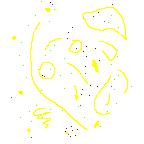
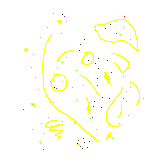
made the ocean larger

diff --git a/Shoot 'n Loot/Shoot 'n Loot/Shoot 'n Loot/Map/Map.cs b/Shoot 'n Loot/Shoot 'n Loot/Shoot 'n Loot/Map/Map.cs
@@ -13,7 +13,7 @@ namespace Shoot__n_Loot
 {
     class Map
     {
-        public const byte width = 12, height = 12, maxZombies = 4; //number of chunks. width * Tile.size * chunk.size should equal the width of the map texture, same for height.
+        public const byte width = 14, height = 14, maxZombies = 4; //number of chunks. width * Tile.size * chunk.size should equal the width of the map texture, same for height.
 
         public static Chunk[,] chunks { get; set; }
 
